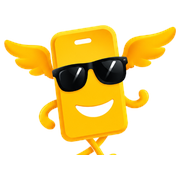
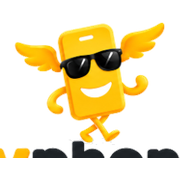
feat(brand): update mascot to official walking mascot with feet and matching Flyphones typography

diff --git a/frontend/src/components/layout/header.tsx b/frontend/src/components/layout/header.tsx
@@ -87,18 +87,20 @@ export function Header() {
           <button type="button" className="rounded-full p-2 text-ink md:hidden" aria-label="Open menu" onClick={() => setMenuOpen(true)}>
             <Menu className="h-5 w-5" />
           </button>
-          <Link href="/" className="group flex shrink-0 items-center gap-2 sm:gap-2.5" aria-label="Flyphones — Powered by Hansh Technologies">
+          <Link href="/" className="group flex shrink-0 items-center gap-2.5 sm:gap-3" aria-label="Flyphones — Powered by Hansh Technologies">
             <img
               src="/logo-icon.png"
-              alt="Flyphones — Powered by Hansh Technologies"
-              className="h-8 w-auto object-contain shrink-0 transition-transform duration-200 group-hover:scale-105 sm:h-[34px]"
+              alt="Flyphones Mascot"
+              className="h-8.5 w-auto object-contain shrink-0 transition-transform duration-200 group-hover:scale-105 sm:h-9"
             />
             <div className="flex flex-col justify-center">
-              <span className="text-[17px] font-bold tracking-tight text-ink leading-none sm:text-[18.5px]">
-                Flyphones
-              </span>
-              <span className="text-[7px] font-semibold tracking-wider text-ink-muted uppercase leading-none pt-1 sm:text-[7.5px]">
-                Powered by Hansh Technologies
+              <div className="flex items-baseline leading-none font-black tracking-tight text-[17px] sm:text-[19px]">
+                <span className="text-[#f59e0b]">Fly</span>
+                <span className="text-ink">phones</span>
+                <span className="text-[#f59e0b]">.</span>
+              </div>
+              <span className="text-[6.5px] font-bold tracking-wider text-ink-muted uppercase leading-none pt-1 sm:text-[7.5px]">
+                — Powered by Hansh Technologies —
               </span>
             </div>
           </Link>
